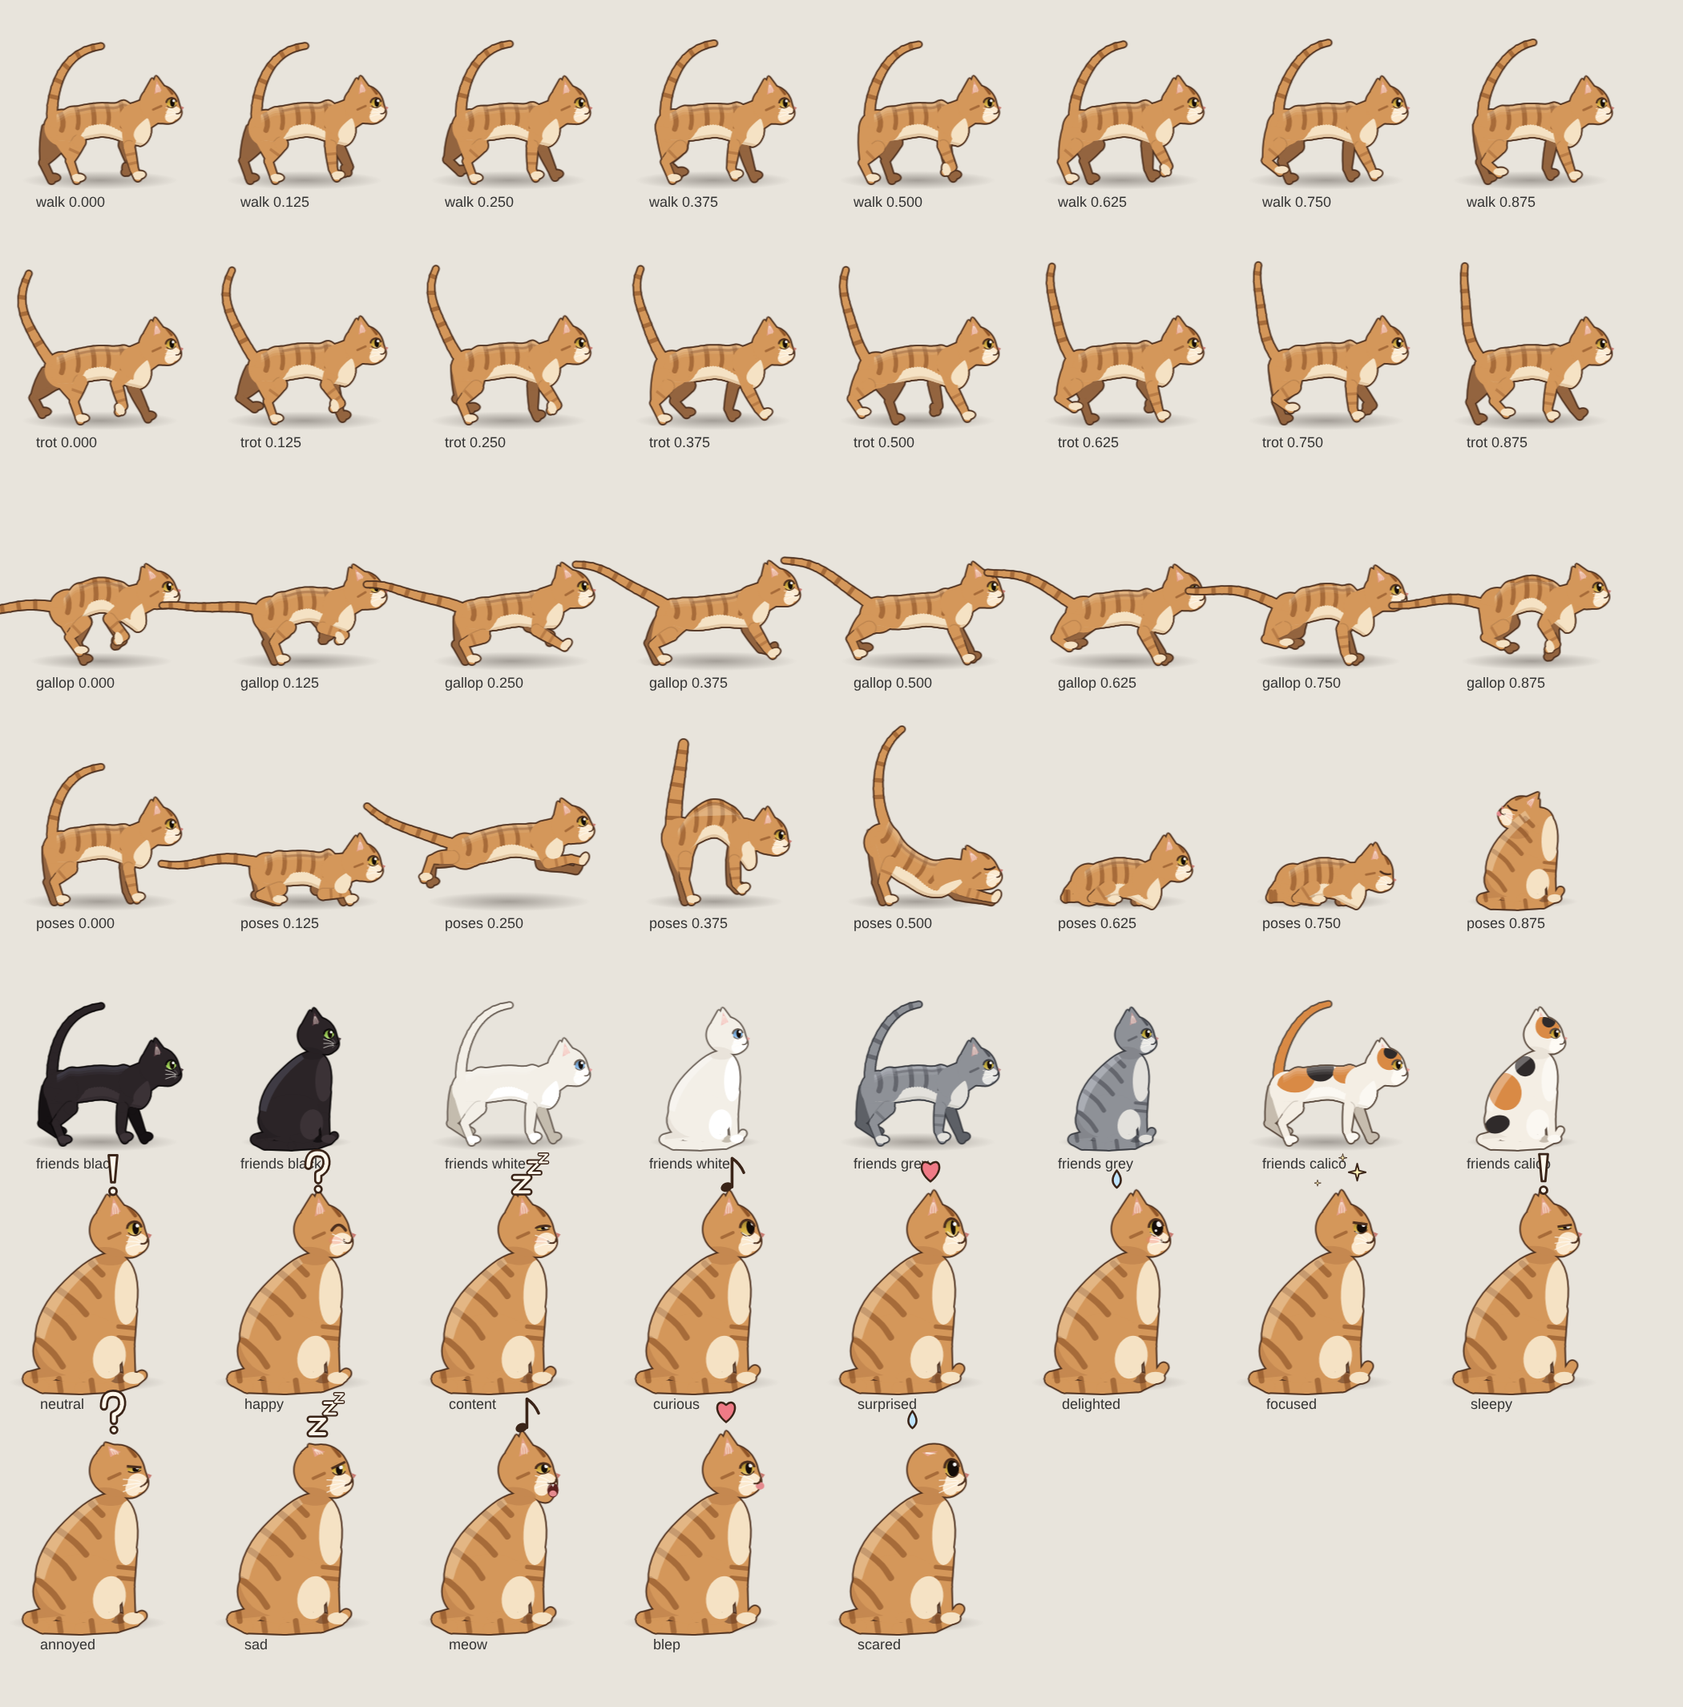
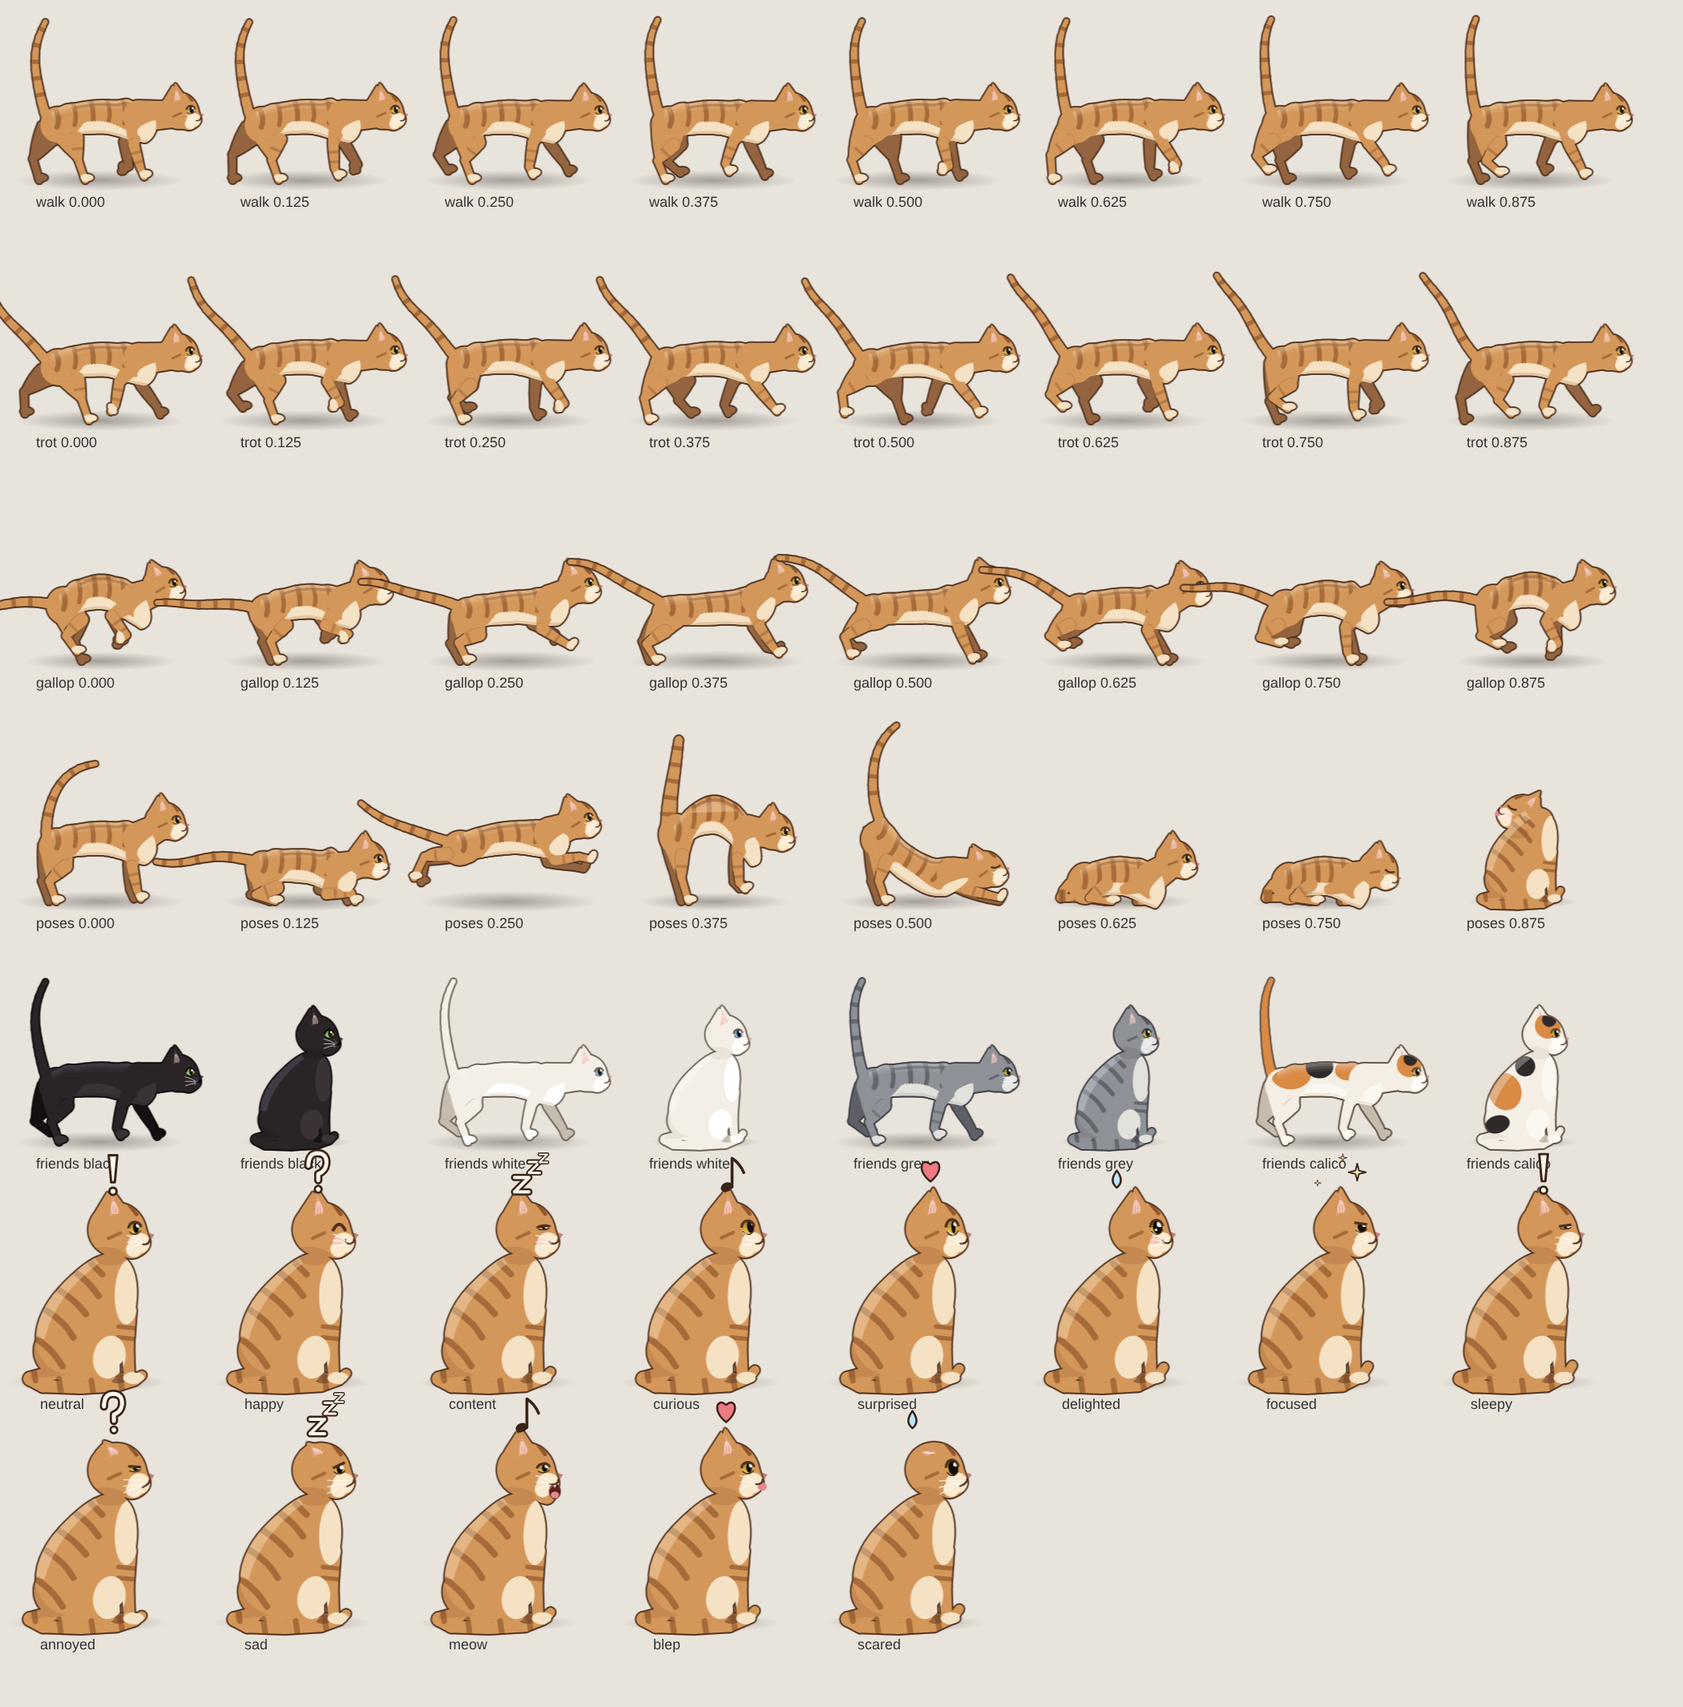
Cat: proportions, gait and face checked frame by frame against reference walk cycles
Longer torso, longer stride, head carried forward, upright tail, bean-shaped
belly; smaller, wider-set eyes, rounder skull and cheeks, ears set wide.

Claude-Session: https://claude.ai/code/session_01VPbtjPGy5UqvDX4Qc8aXKN

diff --git a/src/cat3.js b/src/cat3.js
@@ -14,7 +14,7 @@ const COATS = {
   tuxedo: { base: '#26222a', shade: '#1a171d', far: '#121014', cream: '#f2efe8', creamS: '#d9d4ca', light: 'rgba(170,180,220,0.16)', stripe: null, line: '#0b090c', inner: 'rgba(0,0,0,0.6)', belly: 'rgba(250,248,242,0.95)', eye: '#e2c24c', nose: '#e39a9a', ear: '#5e4650' },
 };
 // head scale (rig / sitting) and eye scale: torso ≈ 2.4 head lengths (a real cat is ≈ 4, a chibi ≈ 1.5); eye height ≈ 0.28 of the head
-let HSR = 1.3, HSS = 1.27, EYE3 = 1.05, EARH = -20;   // EARH: ear-tip height in head units (skull top ≈ −11.5)
+let HSR = 1.3, HSS = 1.36, EYE3 = 0.85, EARH = -20;   // EARH: ear-tip height in head units (skull top ≈ −11.5)
 let CB = null, CB2 = null, CB3 = null, CB4 = null, CB5 = null;
 const CBW = 720, CBH = 560, COX = 360, COY = 470;
 function cbufs() { if (!CB) { CB = mkCanvas(CBW, CBH); CB2 = mkCanvas(CBW, CBH); CB3 = mkCanvas(CBW, CBH); CB4 = mkCanvas(CBW, CBH); CB5 = mkCanvas(CBW, CBH); } }
@@ -37,8 +37,10 @@ const SLEEP3 = { ...LOAF3, head: [44, -28], hr: 0.25, eye: 0, ear: 0.15, tail: [
 /* Walk (lateral sequence) and trot (diagonal pairs). Stance feet move back at exactly the body speed (walkCyc3), so
    nothing slides. Secondary motion is derived from which legs are bearing weight: the withers and pelvis rise over a
    vertical supporting leg, the shoulder blade pokes above the topline, the head counter-bobs and nods with the forefeet. */
+/* half-stride of the walk / trot: a real cat's legs swing well fore and aft of the vertical (an inverted V), not shuffle */
+const WSX3 = 23, TSX3 = 26, WHX3 = 68, WHY3 = -60;   // WHX3/WHY3: head carried forward, just above the topline
 function walkPose3(cyc, o = {}) {
-  const trot = o.trot, duty = trot ? 0.45 : 0.64, Sx = trot ? 17 : 13.5, lift = trot ? 11 : 7.5, low = o.low || 0;
+  const trot = o.trot, duty = trot ? 0.45 : 0.64, Sx = trot ? TSX3 : WSX3, lift = trot ? 11 : 8, low = o.low || 0;
   const offs = trot ? { hn: 0, ff: 0.03, hf: 0.5, fn: 0.53 } : { hn: 0, fn: 0.25, hf: 0.5, ff: 0.75 };
   const sup = {};
   const foot = (k, base, fore) => {
@@ -52,11 +54,11 @@ function walkPose3(cyc, o = {}) {
   const sF = Math.max(sup.fn, sup.ff), sH = Math.max(sup.hn, sup.hf), amp = trot ? 3.2 : 2.2;
   const shY = -52 + low * 1.1 - (sF - 0.7) * amp, hipY = -50 + low - (sH - 0.7) * amp * 0.9;
   return { ...STAND3, hip: [-34, hipY], sh: [30, shY], arch: 3.5 + (sF - sH) * 0.6,
-    head: [54 + (o.headX || 0) + sF * 0.8, -72 + low * 1.3 + (shY + 52 - low * 1.1) * 0.35 + (o.headY || 0)], hr: (o.hr || 0) + (sF - 0.7) * 0.025,
-    fn, ff, hn, hf, sb: 1.2 + 2.6 * sF, hb: 0.8 + 1.6 * sH,
-    tail: o.tail || (trot ? [-2.3, 0.08, 0.1, 3, 0] : [-1.75, 0.12, 0.06, 1.6, 0]), eye: o.eye ?? 1, ear: o.ear || 0 };
+    head: [WHX3 + (o.headX || 0) + sF * 0.8, WHY3 + low * 1.3 + (shY + 52 - low * 1.1) * 0.35 + (o.headY || 0)], hr: (o.hr || 0) + (sF - 0.7) * 0.025,
+    fn, ff, hn, hf, sb: 0.8 + 1.6 * sF, hb: 0.8 + 1.4 * sH,
+    tail: o.tail || (trot ? [-2.3, 0.02, 0.1, 3, 0] : [-1.95, 0.06, 0.06, 1.6, 0]), eye: o.eye ?? 1, ear: o.ear || 0 };
 }
-function walkCyc3(dist, s, trot) { return dist / ((trot ? 34 / 0.45 : 27 / 0.64) * s * SPX); }
+function walkCyc3(dist, s, trot) { return dist / ((trot ? 2 * TSX3 / 0.45 : 2 * WSX3 / 0.64) * s * SPX); }
 /* Galloping lope (transverse sequence: far-hind, near-hind, near-fore, far-fore) with one gathered suspension.
    The spine stays almost the same length (±11%): extension is shown by the back flattening and the legs reaching,
    not by stretching the body. GLC = stride per cycle in pose units; drive it with gallopCyc3 so stance feet stay put. */
@@ -90,9 +92,9 @@ function gallopPose3(cyc) {
 }
 function gallopCyc3(dist, s) { return dist / (GLC * s * SPX); }
 /* rig poses are authored long; they are drawn compressed along x by SPX for a compact, cat-like torso */
-const SPX = 0.86;
+const SPX = 0.96;
 /* …and lowered by SPY with legs shortened to match (LEG), so the torso is as deep as the legs are long, not on stilts */
-const SPY = 0.88, LEG = 0.88;
+const SPY = 0.93, LEG = 0.93;
 /* the head sits low on the shoulders (no giraffe neck): 20% closer to the withers than authored */
 function headPos3(p) { const sx = p.sh[0] * SPX, hx = p.head[0] * SPX; return [lerp(sx, hx, 0.8) + 2, lerp(p.sh[1], p.head[1], 0.8) * SPY + 2]; }
 function squashX(p) { if (p.sit) return p; const q = { ...p }; ['hip', 'sh'].forEach(k => q[k] = [p[k][0] * SPX, p[k][1] * SPY]); q.head = headPos3(p); ['fn', 'ff', 'hn', 'hf'].forEach(k => q[k] = [p[k][0] * SPX, p[k][1] * SPY, p[k][2]]); return q; }
@@ -103,8 +105,8 @@ function bodyGeom3(p) {
   const sp = u => { const a = 4 * u * (1 - u) * (p.arch || 0); return [H[0] + dx * u + n[0] * a, H[1] + dy * u + n[1] * a]; };
   const at = (u, k) => { const q = sp(u); return [q[0] + n[0] * k, q[1] + n[1] * k]; };
   const top = u => (10.5 + 1.6 * Math.sin(clamp(u) * Math.PI) + 1.2 * sm(clamp((u - 0.7) / 0.3))) * g0 + sb * Math.exp(-Math.pow((u - 0.86) / 0.09, 2)) + hb * Math.exp(-Math.pow((u - 0.06) / 0.1, 2));
-  // belly: one soft, nearly level line (a slight pouch in front of the haunch) rising only into the deep chest — no wasp waist
-  const bot = u => (13.6 + 1.1 * Math.exp(-Math.pow((u - 0.26) / 0.2, 2)) + 4.2 * sm(clamp((u - 0.5) / 0.45)) - 3 * sm(clamp((0.08 - u) / 0.2))) * br * g0;
+  // belly: a bean — deep round chest, a gentle rise toward the thigh (never a pinched wasp waist)
+  const bot = u => (12.8 + 1.2 * sm(clamp((u - 0.12) / 0.4)) + 4.2 * sm(clamp((u - 0.5) / 0.45)) - 2.6 * sm(clamp((0.08 - u) / 0.2))) * br * g0;
   const TP = [], BP = [];
   for (let u = -0.12; u <= 1.1001; u += 0.04) { TP.push(at(u, top(u))); BP.push(at(u, -bot(u))); }
   const front = [at(1.19, 8), at(1.24, -3), at(1.17, -13)], rear = [at(-0.17, -9), at(-0.205, -3.5), at(-0.215, 2.5), at(-0.185, 8.5)];
@@ -168,8 +170,8 @@ function hull2(P) { const p = P.slice().sort((a, b) => a[0] - b[0] || a[1] - b[1
   return lo.slice(0, -1).concat(up.slice(0, -1)); }
 function earGeo(H, p, s) {
   const e = p.ear || 0, dn = p.earDown || 0;
-  // ear ≈ 0.4 of the skull height (a real cat's proportion), with a softly rounded tip — tall spikes read as a fox
-  const b1 = [s * 2.2, -11.2, 4.6], b2 = [s * 11, -6.6, -3.4], tp = [s * (8.6 + dn * 8), EARH + dn * 9 + Math.max(0, e) * 2, -0.6 - e * 6 - dn * 2];
+  // ear ≈ 0.4 of the skull height, set wide at 10 and 2 o'clock with a softly rounded tip — tall spikes close together read as a fox
+  const b1 = [s * 3.4, -10.9, 4.4], b2 = [s * 12.2, -5.8, -3.4], tp = [s * (11 + dn * 7), EARH + dn * 9 + Math.max(0, e) * 2, -0.6 - e * 6 - dn * 2];
   const dep = H.d(s * 7, 0), q1 = H.pr(...b1), q2 = H.pr(...b2), edge = clamp(1 - Math.hypot(q1[0] - q2[0], q1[1] - q2[1]) / 12.4);
   // seen edge-on (or foreshortened behind the head) an ear would stand up as a thin spike: lower its tip
   tp[1] += 3.2 * Math.max(edge, dep < 0 ? clamp(-dep / 5) : 0);
@@ -186,8 +188,8 @@ function earGeo(H, p, s) {
 /* head outline: the skull, cheeks, muzzle and chin are merged into ONE smooth contour. A ray is cast from the head
    centre every 5.6°, the outermost piece wins, then a radial closing + blur removes the notches between pieces. */
 function headPath(H, p) {
-  const sk = H.pr(0, -2, 0), w = Math.hypot(12 * H.cs, 11.5 * H.sn), C = [sk[0], sk[1] + 1.5], circ = [];
-  [-1, 1].forEach(s => { const q = H.pr(s * 7.6, 3.2, 2.6); circ.push([q[0], q[1], 6.4]); });
+  const sk = H.pr(0, -2, 0), w = Math.hypot(13.2 * H.cs, 11.5 * H.sn), C = [sk[0], sk[1] + 1.5], circ = [];
+  [-1, 1].forEach(s => { const q = H.pr(s * 7.4, 2.4, 2.6); circ.push([q[0], q[1], 6]); });   // cheeks: rounded, no square jowls
   const mz = H.pr(0, 3.3, 9), ch = H.pr(0, 6.2, 6.6); circ.push([mz[0], mz[1], 5], [ch[0], ch[1], 3.8]);
   if ((p.mouth || 0) > 0.05) { const j = H.pr(0, 5.8 + 3.6 * p.mouth, 8.4); circ.push([j[0], j[1], 4.2]); }
   const N = 64, r = [], dx0 = C[0] - sk[0], dy0 = C[1] - sk[1];
@@ -395,7 +397,7 @@ function face3(P, p, sil) {
   }
   // eyes
   const N = H.pr(0, 0.8, 13.9);
-  [-1, 1].forEach(s => { const fw = H.d(s * 0.55, 0.83); if (fw < 0.05) return; const E = H.pr(s * 5.4, -2.6, 8.7), inner = N[0] >= E[0] ? 1 : -1;
+  [-1, 1].forEach(s => { const fw = H.d(s * 0.55, 0.83); if (fw < 0.05) return; const E = H.pr(s * 6.2, -2.6, 8.5), inner = N[0] >= E[0] ? 1 : -1;
     eye3(E[0], E[1], 3.9 * ES * (0.3 + 0.7 * fw), 2.9 * ES, inner, q, P, sil, H); });
   // mouth (open)
   if (m > 0.05) { const Mo = H.pr(0, 5.2 + 2.2 * m, 12.2), rx = lerp(2.2, 3.8, front), ry = 0.8 + 3.2 * m;

diff --git a/CLAUDE.md b/CLAUDE.md
@@ -60,7 +60,7 @@ Inside `draw(lt)` use the layer helpers from `core.js`:
 ### The cat (`cat3.js`, `actions3.js`)
 - **Rig**: a pose is plain data — `hip`, `sh` (shoulder), `arch`, `head`, `hr` (head rotation), `turn` (head yaw: 0 profile → 1 facing the camera), four paw targets `fn/ff/hn/hf = [x, y, flex]`, `tail = [baseAngle, curl, waveAmp, waveFreq, onGround]` (+ optional `tailPh` to drive the wave from the gait, `tailW` thickness), `sb`/`hb` (shoulder-blade / hip bump on the topline), `g` (girth), plus the face parameters below. Legs are solved with 2-bone IK. Sitting uses a separate silhouette (`SITP`, `pose.sit = 1`).
 - **Poses**: `STAND3, CROUCH3, LEAP3, LAND3, STRETCH3, LOAF3, SLEEP3, SCARED3` (arched “Halloween cat”), `REAR3`, `LOAFT3`/`SLEEPT3` (loaf with the front paws tucked under the chest — `tuck: 1` draws the near forearm behind the body), `SITP`; `groom3(lt, t0, t1)` (actions3.js) is a sitting overlay that turns the head back over the shoulder (`turn` → 2, `hdx/hdy`) and licks the flank; generators `walkPose3(cycles, {trot, low, ear, eye, hr, tail})` (secondary motion — withers/pelvis height, shoulder-blade bump, head nod — is derived from which legs bear weight) and `gallopPose3(cycles)` (transverse lope; spine length changes ≤ ~11%, never stretch the body). Blend any two rig poses with `lp(a, b, u)`. Sit↔rig can't be blended — use `cross(qa, qb, u)` (a short dissolve).
-- **Compact torso**: rig poses are authored long and drawn compressed along x by `SPX` and lowered by `SPY` (`squashX` in `drawCat3`), with the leg bones shortened by `LEG` to match; `walkCyc3`/`gallopCyc3` and `noseW`/`pawW` already account for it. The torso is a full tube: the belly (`bot` in `bodyGeom3`) is one nearly level line with a slight pouch before the haunch, deepening only into the chest — never pinch the waist (it reads as a thin, stilt-legged cat when walking); belly-to-ground ≈ torso depth. Hind paws stand under the rump (`hn`/`hf` ≈ −38/−44), not under the middle of the body. Hind leg: short broad thigh (17.5) painted with the body, shin 19, long near-vertical metatarsal (hock ≈ 17.5 up) — keep the knee tucked up under the haunch, a low knee + low hock reads as a bird leg. `hindWeb` fills the notch between rump and shin so the back of the hind leg is one convex line from the rump to the heel; the inner contour is also cut away around the elbow and knee so no line shows where a leg leaves the body. The head sits low on the shoulders (`headPos3` pulls it 20% toward the withers). Head size `HSR`/`HSS` ≈ 1.3 (torso ≈ 2.4 head lengths; a real cat is ≈ 4) and eye scale `EYE3` ≈ 1.05 (eye ≈ 0.28 of head height), ear tip `EARH` ≈ −20 (ear ≈ 0.4 of the skull height; tips rounded, a turned ear is kept ≥ 2/3 wide) — bigger reads as a chibi, not an elegant cat.
+- **Compact torso**: rig poses are authored long and drawn compressed along x by `SPX` and lowered by `SPY` (`squashX` in `drawCat3`), with the leg bones shortened by `LEG` to match; `walkCyc3`/`gallopCyc3` and `noseW`/`pawW` already account for it. The torso is a full tube: the belly (`bot` in `bodyGeom3`) is one nearly level line with a slight pouch before the haunch, deepening only into the chest — never pinch the waist (it reads as a thin, stilt-legged cat when walking); belly-to-ground ≈ torso depth. Proportions and gait were checked frame by frame against reference walk cycles (hand-drawn and real cats, looked at only — not in the repo): torso ≈ 1.6× withers height, a long stride (`WSX3`/`TSX3`: legs swing well fore and aft as an inverted V), head carried forward just above the topline (`WHX3`/`WHY3`), tail rising from the top of the rump. Hind paws stand under the rump (`hn`/`hf` ≈ −38/−44), not under the middle of the body. Hind leg: short broad thigh (17.5) painted with the body, shin 19, long near-vertical metatarsal (hock ≈ 17.5 up) — keep the knee tucked up under the haunch, a low knee + low hock reads as a bird leg. `hindWeb` fills the notch between rump and shin so the back of the hind leg is one convex line from the rump to the heel; the inner contour is also cut away around the elbow and knee so no line shows where a leg leaves the body. The head sits low on the shoulders (`headPos3` pulls it 20% toward the withers). Head size `HSR`/`HSS` ≈ 1.3 (torso ≈ 2.4 head lengths; a real cat is ≈ 4) and eye scale `EYE3` ≈ 0.85 (eye ≈ 0.22 of head height, eyes about one eye-width apart), ear tip `EARH` ≈ −20 (ear ≈ 0.4 of the skull height, set wide at 10 and 2 o'clock; tips rounded, a turned ear is kept ≥ 2/3 wide); the skull is wider than tall and the cheeks round, no square jowls — bigger reads as a chibi, not an elegant cat.
 - **No foot sliding**: convert distance to gait cycles with `walkCyc3(dist, scale, trot)` / `gallopCyc3(dist, scale)`. A gallop needs ≈200 px/s to read as running.
 - **Rendering** (`drawRig`): far legs (darker `far` colour) → tail → body, with the **haunch and both near upper limbs painted into the body pass** so stripes and the cream underside run across them → the near upper arm painted *after* the body shading (clipped below the stripes) so the leg is one colour from shoulder to paw, one cream bib from chin to chest → near *lower* legs on their own layer (`CB3`) with a thin inner contour (`CB4`), kept only where it crosses a far leg (`CB5` holds the far legs) → neck and head. Then one outer outline by dilating the silhouette, optional rim light, face on top. Don't draw the thigh as a separate shape (it reads as a drumstick) and don't give limbs their own outlines. The cream belly stops before the haunch.
 - **Head**: a small 3D model (`headView`, `earGeo`, `headPath`: skull, cheeks + fur tufts, muzzle, chin, ears) projected at yaw `turn` (0 profile, 1 front, 2 looking back over the shoulder); no cheek tufts — they read as a growth; `headPath` merges skull, cheeks, muzzle and chin into one smooth contour (radial max → closing → blur), never draw the head as a union of separate circles (bumpy outline); `headSil` fills it into the silhouette and `face3`/`eye3` draw the features, so every expression works in profile, three-quarter and front view. `turnAt(lt, [[t0, t1, amount]])` ramps a look at the camera.

diff --git a/docs/CHANGELOG.md b/docs/CHANGELOG.md
@@ -4,6 +4,11 @@
 - **身體比例**：走路、跑步時身體中段不再細瘦。肚子改成一條接近水平、在後腿前微微下垂的線，只往胸口加深，不再收細腰；身體整體降低約 12%，腿的骨架等比例縮短，肚子到地面的高度和身體厚度接近（參考貓的解剖：胸口底部約在手肘高度，家貓腿相對身體偏短）。
 - **頭與眼睛縮小**：頭縮小約 23%（身體長度約為頭長的 2.4 倍；真實的貓約 4 倍，Q 版約 1.5 倍），眼睛再縮小約 16%（眼高約為頭高的 0.28），整體更優雅，表情仍看得清楚。
 - **耳朵**：耳尖降低約 35%（耳高約為頭骨高度的 0.4，接近真實的貓），尖端修圓；頭轉到 3/4 時，後側的耳朵不再變成細長尖刺。
+- **逐格比對參考動畫與真貓**：找了約 18 段手繪動畫貓、約 30 段真貓的 GIF（只用來看，不放進 repo），把走路循環和臉一格一格並排比較後修正：
+  - 身體拉長（軀幹約為肩高的 1.6 倍），步幅加大，四條腳前後擺成「人」字形，不再小碎步；
+  - 走路時頭往前、略高於背線，不再高高抬著；肩胛的凸起變小，背部線條更順；尾巴從臀部上方往上立起，末端微彎；
+  - 肚子改成「豆子形」：胸口深而圓，往後腿方向微微收起，但不是細腰；腿長回到約與身體厚度相當；
+  - 臉：眼睛再縮小（眼高約為頭高的 0.22，兩眼間距約一個眼寬），頭型改成比耳寬的圓頭、臉頰圓潤不再方下巴，耳朵往兩側張開（約 10 點和 2 點方向）；坐姿的頭稍微放大，避免頭小身大。
 - 背上的亮面改成三層漸淡，不再有一條硬邊；背中線的條紋順著背部曲線；臀部後緣更圓，腿稍微加粗。
 
 ## v4.1
